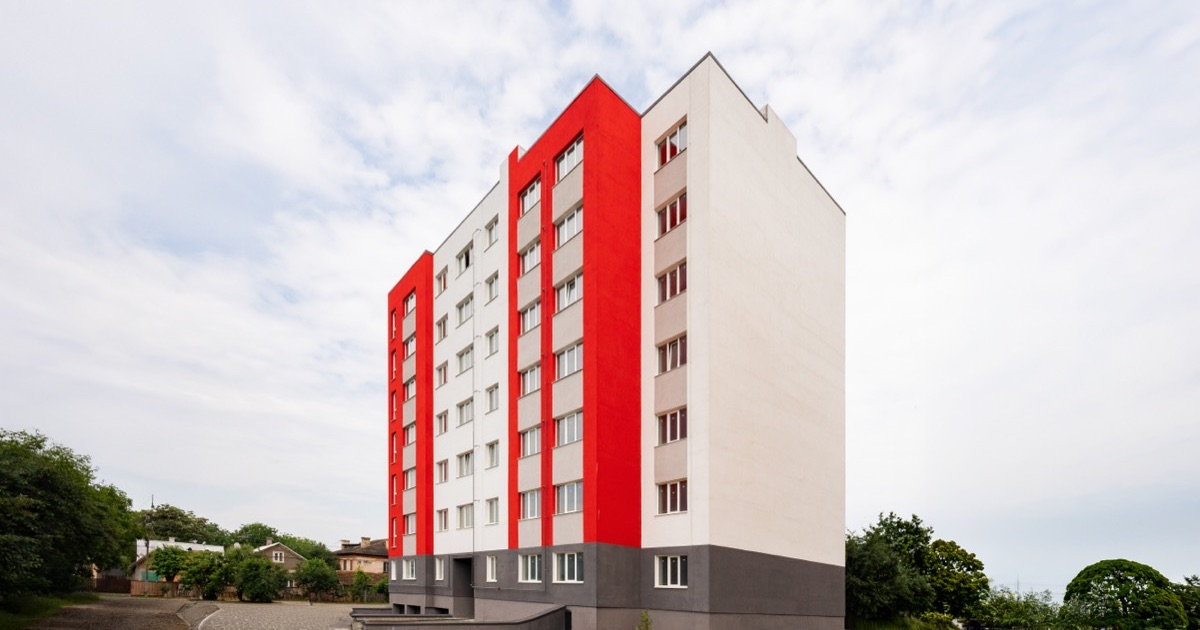
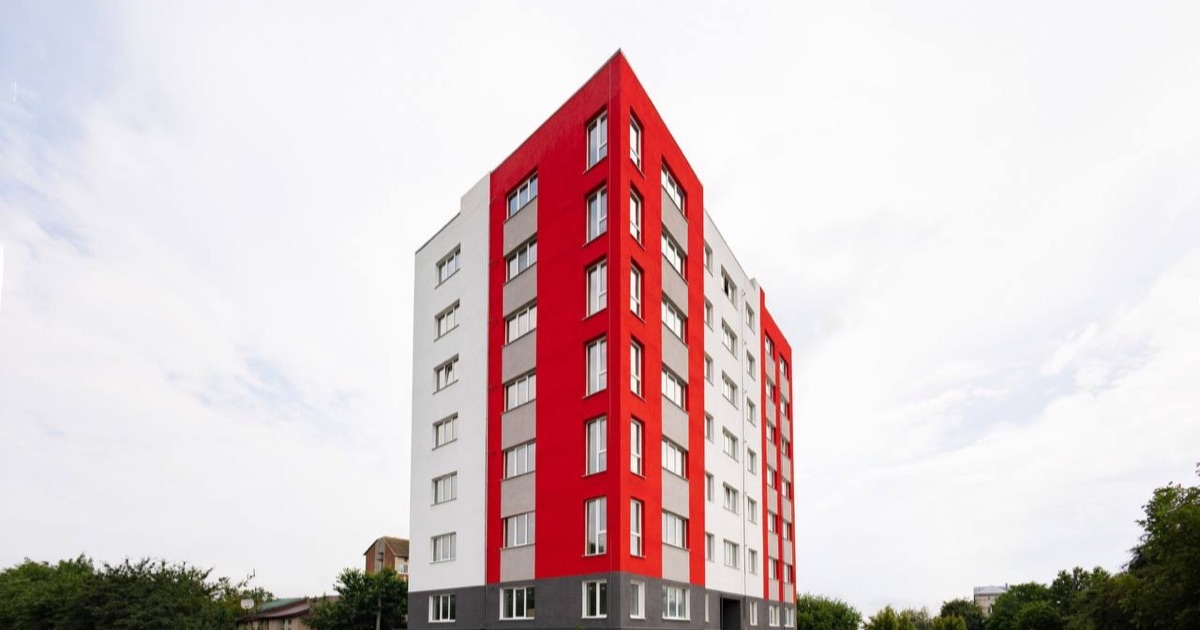
Update project photos, /projects carousel and Хотинська address
- New photos for ЖК на Вишневій, ЖК на Вересневій, 1-З and ЖК на Івана
  Підкови, 11-Б (new file names so cached old images can't resurface);
  /projects share image rebuilt from the new Вишнева photo
- /projects hero carousel order: Підкови 11-Б, Вишнева, клуб «Рогізна»,
  БНУ, Заводська 56-К, Підкови 11-А; Вереснева left out
- Address reads «4-й провулок Заводський, 2» on the home card and
  /projects

diff --git a/src/lib/projects.ts b/src/lib/projects.ts
@@ -14,12 +14,14 @@ export interface Project {
   cta?: { label: string; href: string };
 }
 
-// Hero slideshow: photos of completed complexes; the caption names the current one.
+// Hero slideshow: photos of completed objects in this order; the caption names the current one.
 export const HERO_SLIDES = [
-  { src: '/images/projects/vyshneva.jpg', label: 'ЖК на Вишневій, 14Б' },
-  { src: '/images/projects/veresneva.jpg', label: 'ЖК на Вересневій, 1-З' },
-  { src: '/images/projects/pidkovy-11b.jpg', label: 'ЖК на Івана Підкови, 11-Б' },
+  { src: '/images/projects/pidkovy-11b-facade.jpg', label: 'ЖК на Івана Підкови, 11-Б' },
+  { src: '/images/projects/vyshneva-facade.jpg', label: 'ЖК на Вишневій, 14Б' },
+  { src: '/images/rohizna.jpg', label: 'Клуб «Рогізна»' },
+  { src: '/images/bnu.jpg', label: 'Учбовий корпус БНУ' },
   { src: '/images/projects/zavodska-56k.jpg', label: 'ЖК на Заводській, 56-К' },
+  { src: '/images/projects/pidkovy-11a.jpg', label: 'ЖК на Івана Підкови, 11-А' },
 ] as const;
 
 export const HERO_CHIPS = [
@@ -36,7 +38,7 @@ export const FEATURED = {
   kicker: 'Новий проєкт · комфорт-клас',
   text: 'Новий ЖК комфорт-класу на стадії активного будівництва. Усі продажі — через нотаріальне посвідчення договору купівлі-продажу та реєстрацію МОН.',
   // The design says «здача 2027–2028»; the disclosure pages state III кв. 2029, so that wins.
-  location: 'Чернівці, 4-й пров. Заводський, 2 · здача III кв. 2029',
+  location: 'Чернівці, 4-й провулок Заводський, 2 · здача III кв. 2029',
   href: '/khotynska',
 } as const;
 
@@ -45,7 +47,7 @@ export const PROJECTS: readonly Project[] = [
     name: 'ЖК на Вишневій',
     address: 'Чернівці, вул. Вишнева, 14Б',
     category: 'residential',
-    image: '/images/projects/vyshneva.jpg',
+    image: '/images/projects/vyshneva-facade.jpg',
     text: 'Зданий житловий комплекс — можна оглянути сьогодні. Деякі квартири ще доступні.',
     offer: '+3 м²',
     cta: { label: 'Вільні квартири →', href: '/contacts#contact' },
@@ -72,13 +74,13 @@ export const PROJECTS: readonly Project[] = [
     name: 'ЖК на Івана Підкови, 11-Б',
     address: 'Чернівці',
     category: 'residential',
-    image: '/images/projects/pidkovy-11b.jpg',
+    image: '/images/projects/pidkovy-11b-facade.jpg',
   },
   {
     name: 'ЖК на Вересневій, 1-З',
     address: 'Чернівці',
     category: 'residential',
-    image: '/images/projects/veresneva.jpg',
+    image: '/images/projects/veresneva-facade.jpg',
   },
   {
     name: 'Учбовий корпус БНУ',

diff --git a/src/components/home/ProjectsSection/ProjectsSection.tsx b/src/components/home/ProjectsSection/ProjectsSection.tsx
@@ -17,7 +17,7 @@ const COMPLETED: readonly CompletedProject[] = [
   {
     name: 'ЖК на Вишневій',
     address: 'Чернівці, вул. Вишнева, 14Б',
-    image: '/images/projects/vyshneva.jpg',
+    image: '/images/projects/vyshneva-facade.jpg',
     badge: 'success',
     note: 'Є вільні квартири',
     forSale: true,
@@ -131,11 +131,11 @@ export function ProjectsSection(): React.JSX.Element {
           <div className={styles.featuredBody}>
             <p className={styles.kicker}>Новий проєкт</p>
             <h3 className={styles.featuredTitle}>ЖК на Хотинській</h3>
-            <p className={styles.featuredSub}>4-й провулок Заводський</p>
+            <p className={styles.featuredSub}>4-й провулок Заводський, 2</p>
             <ul className={styles.facts}>
               <li>
                 <PinIcon />
-                Чернівці, 4-й пров. Заводський
+                Чернівці, 4-й провулок Заводський, 2
               </li>
               <li>
                 <CalendarIcon />
